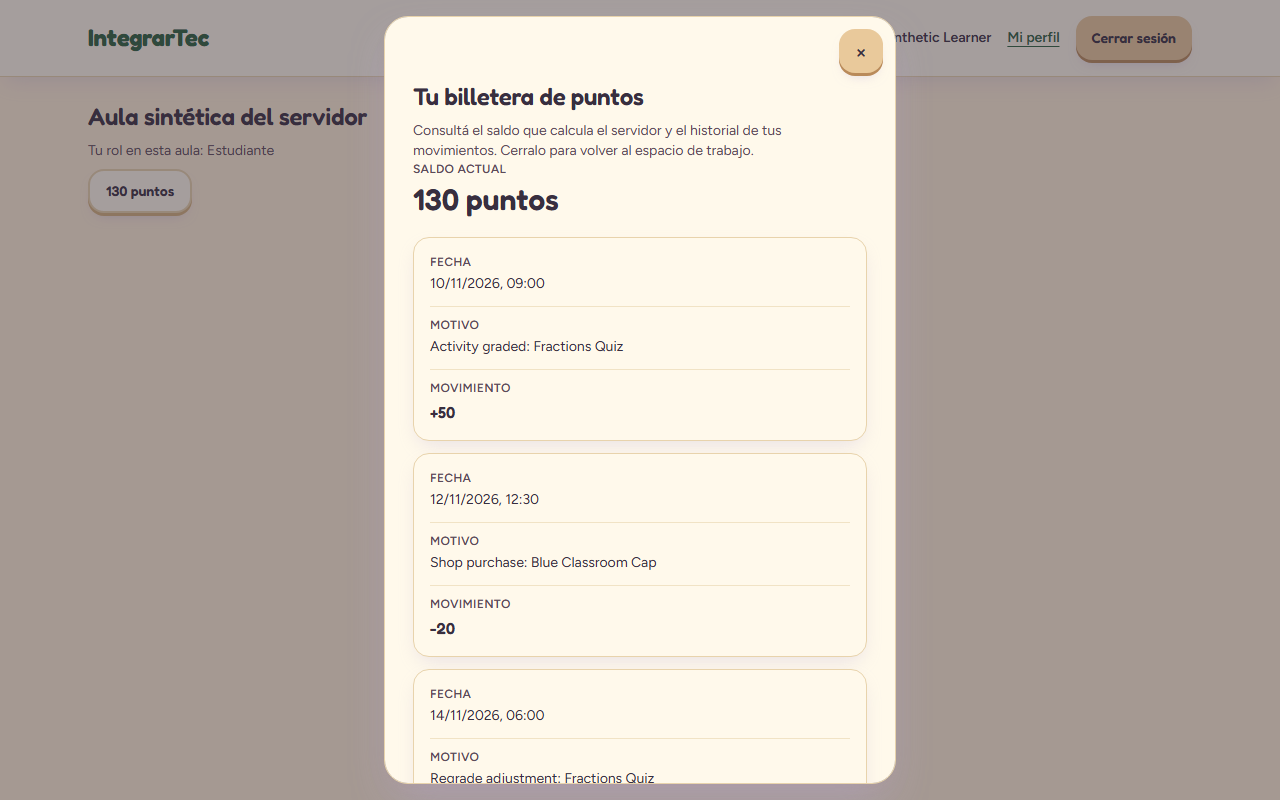
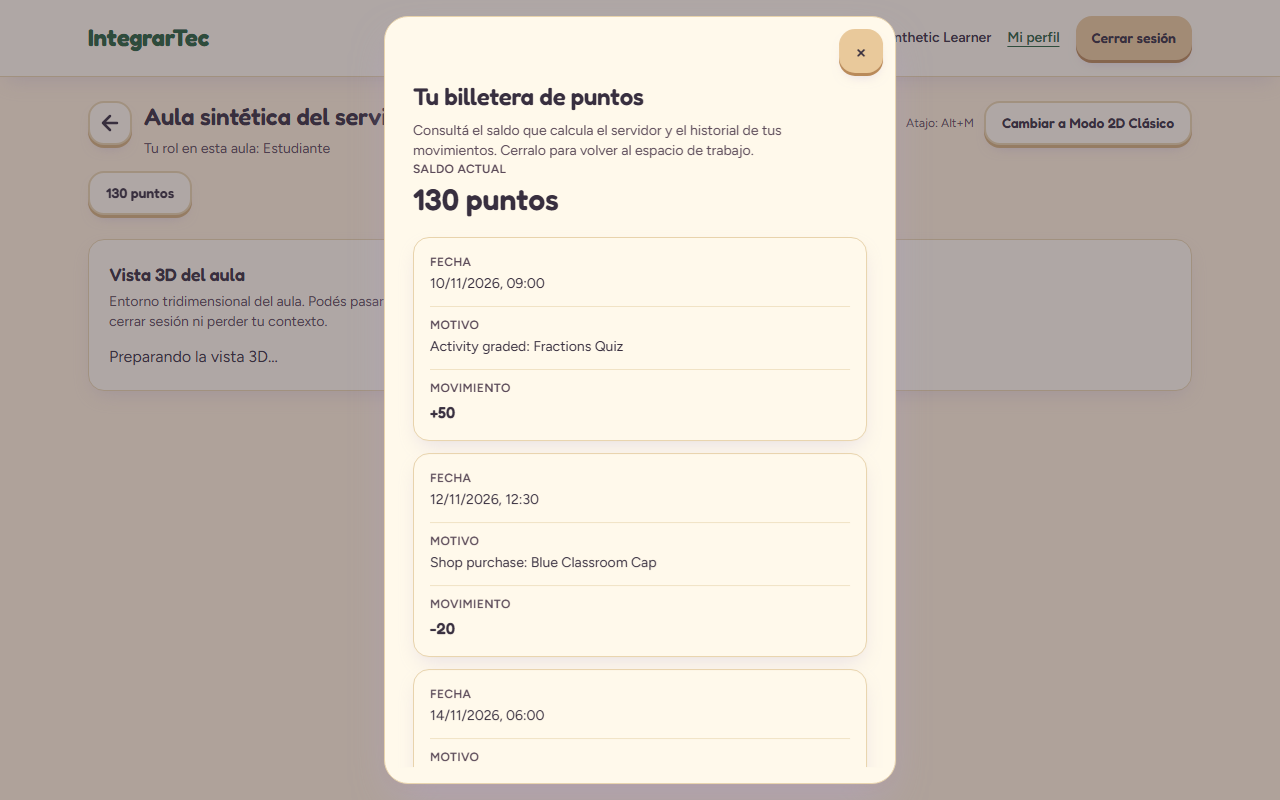
docs(wallet): refresh screenshots after develop sync and record it (#45)
Re-captured the 1280/360 wallet screenshots from the fully reconciled workspace header and recorded the second develop sync evidence in the tracker.

diff --git a/changelogs/tracker-alejo.md b/changelogs/tracker-alejo.md
@@ -7,7 +7,8 @@
 - **Change:** Merged current `origin/develop` (`5eb4daf`, 2D/3D workspace) into the audited wallet head (`03e97f9`) as merge commit `ee057fa`: the workspace keeps develop's back link, view-mode toggle and parent restrictions while mounting the student-gated `WalletIndicator` in both modes; the wallet threat row is deduplicated as `TM-025` next to develop's `TM-023`/`TM-024`. Fixed an inherited revocation gap reproduced test-first: after a `403`/`404`, a later failed refresh (e.g. `500`) resurfaced the cached private balance as `ready`/`stale`, on the current page and a mounted sibling page. `useStudentWallet` now latches revoked access in render-safe state (the `react-hooks/refs` rule rejects ref reads during render), drops unobserved cached wallet pages of that scope on revocation and on unmount (never the active entry, which made `useQuery` rebuild a fresh query and refetch forever), and never renders data older than the latch; 4 new regression tests.
 - **Reason:** PR #93 stayed conflicting after `develop` advanced, and revoked-access privacy requires the cached private ledger to be unreachable, not merely hidden (`rules/points-and-shop.md`, `rules/state-management.md`).
 - **Verification:** Full pre-fix ladder over the merge alone (Node `v22.23.4` / pnpm `10.34.9`): lint, typecheck, serial Vitest `787/787` (`72` files), build, `security:check`, `format:check` all green. Post-fix: affected suites `89/89` (points, query-keys, workspace, panels), lint, typecheck, prettier on all changed files, `build:e2e`, wallet e2e `4/4` (desktop `1280px` + mobile `360px`, CSP/`pageerror` monitors), workspace e2e `22/22` (the exact merged header combination), `check_docs.py` (`70` files) and `git diff --check origin/develop..HEAD` all green. Disclosures: the threat table was re-aligned by Prettier after the widened `TM-025` row (~60 mechanical whitespace lines); synthetic MSW/Playwright data pending live backend; bash-invoking CI python checks run in Ubuntu CI; the post-fix full-suite rerun covered the affected suites on top of the green `787/787` baseline.
-- **Next step:** Teammate review and CI on the reconciled head; merge and issue closure remain team decisions. No merge or issue closure performed here.
+- **Second develop sync (`b4a6f14`, PRs #96 and #32):** union resolution keeping develop's invitation/activity keys, handlers and threat rows `TM-001..TM-027` plus the wallet additions, wallet row renumbered `TM-028` (focus path 16). Verified: full serial Vitest 819/819 (76 files), lint, typecheck, build, `security:check`, `format:check` (after clearing checkout-only CRLF noise; all tracked blobs are LF), `build:e2e`, wallet e2e 4/4, workspace e2e 22/22, docs check and whitespace. Fresh 1280/360 screenshots from the reconciled UI.
+- **Next step:** Teammate review and CI on the synced head; merge and issue closure remain team decisions. No merge or issue closure performed here.
 
 ## 2026-11-18 — Implement student points wallet and PR #93 audit fixes (#45)
 
